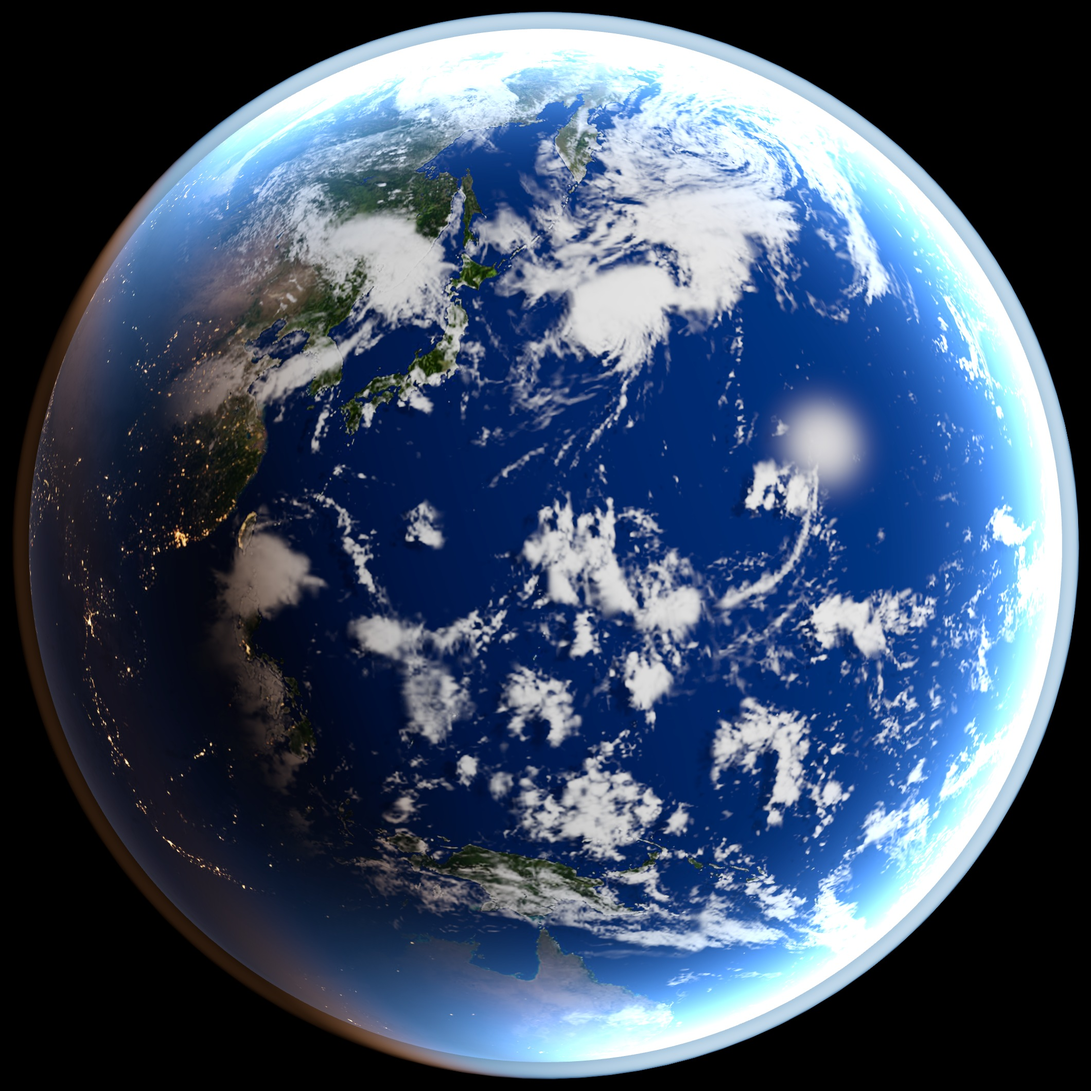
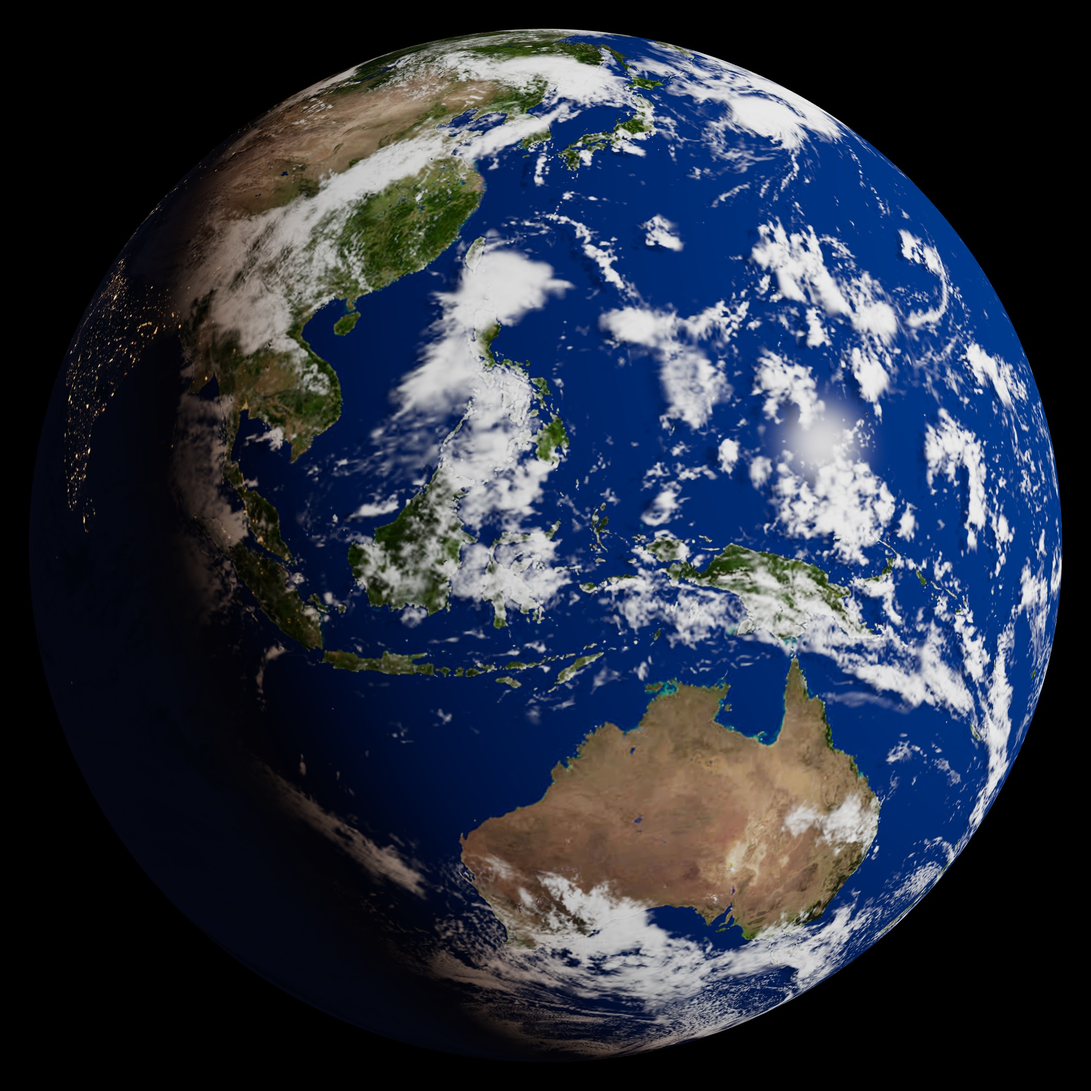
One Earth view at three sizes for the backdrop
The globe was re-rendered once from the first build's shader with the rim haze
off, tilted so China, Korea, Japan and a cloud system sit on the top limb and
Asia, Indonesia and Australia fill the disc. MakeBackdrop.py turns that single
still into the same full disc at 500, 250 and 140 art pixels, with a thin
atmosphere band on the lit limb only. The Americas still is no longer used.

diff --git a/Tools/MakeBackdrop.py b/Tools/MakeBackdrop.py
@@ -3,7 +3,7 @@ from pathlib import Path
 from PIL import Image, ImageEnhance
 
 Root = Path(__file__).resolve().parent
-Sources = {'Pacific': Root / 'Source' / 'GlobeStill.jpg', 'Americas': Root / 'Source' / 'GlobeLimbStill.jpg'}
+Source = Root / 'Source' / 'GlobeStill.jpg'
 Target = Path(sys.argv[1]) if len(sys.argv) > 1 else Root.parent / 'public' / 'Backdrop'
 SourceCentre = 1060
 SourceRadius = 1004
@@ -18,11 +18,7 @@ Lights = Hex('#ffcf6b')
 Surface = Night + Ocean + Cloud + Land + Dusk
 Palette = [(0, 0, 0)] + Surface + [Lights]
 LightShare = 24
-LargeSource = 'Pacific'
-LargeView = (0.75, -0.05, 0.13)
-Haze = 0.7
-HazeStart = 0.86
-Tint = (52, 112, 206)
+Sun = (0.82 / 1.0, 0.3, 0.49)
 Glint = (1598, 832)
 GlintRadius = 125
 GlintOcean = (14, 62, 140)
@@ -44,11 +40,6 @@ def Quantise(colour, x, y):
     return second if threshold < share else first
 
 
-def Dehaze(colour, reach):
-    weight = min(1.0, max(0.0, (reach - HazeStart) / (1 - HazeStart))) ** 1.4 * Haze
-    return tuple(round(colour[i] * (1 - weight) + Tint[i] * weight) for i in range(3))
-
-
 def Despeckle(grid, size, keep):
     out = [row[:] for row in grid]
     for y in range(1, size - 1):
@@ -65,7 +56,13 @@ def Despeckle(grid, size, keep):
     return out
 
 
-def Render(still, lights, diameter, keepRows=None, view=None):
+def Daylight(dx, dy, radius):
+    u, v = dx / radius, -dy / radius
+    depth = max(0.0, 1 - u * u - v * v) ** 0.5
+    return u * Sun[0] + v * Sun[1] + depth * Sun[2]
+
+
+def Render(still, lights, diameter):
     radius = diameter / 2
     pad = 3
     size = diameter + pad * 2
@@ -73,51 +70,34 @@ def Render(still, lights, diameter, keepRows=None, view=None):
     small = still.resize((diameter, diameter), Image.BOX, box=box).load()
     lit = lights.resize((diameter, diameter), Image.BOX, box=box).load()
     grid = [[None] * size for _ in range(size)]
-    if view:
-        zoom, shiftX, shiftY = view
-        factor = SourceRadius * zoom / radius
-        scaled = (round(still.size[0] / factor), round(still.size[1] / factor))
-        small = still.resize(scaled, Image.BOX).load()
-        lit = lights.resize(scaled, Image.BOX).load()
-        sample = lambda x, y: (int((SourceCentre + shiftX * SourceRadius) / factor + x - pad + 0.5 - radius), int((SourceCentre + shiftY * SourceRadius) / factor + y - pad + 0.5 - radius))
-    else:
-        sample = lambda x, y: (x - pad, y - pad)
     for y in range(size):
         for x in range(size):
             dx, dy = x - pad + 0.5 - radius, y - pad + 0.5 - radius
             distance = (dx * dx + dy * dy) ** 0.5
+            day = Daylight(dx, dy, radius)
+            threshold = Bayer[y % 4][x % 4]
             if distance < radius:
-                at = sample(x, y)
-                colour = small[at] if view else Dehaze(small[at], distance / radius)
+                colour = small[x - pad, y - pad]
                 edge = radius - distance
-                if view and edge < 1.6:
-                    grid[y][x] = Ocean[3]
-                elif view and edge < 4.6 and Bayer[y % 4][x % 4] < (8 if edge < 3.1 else 4):
+                if edge < 1.6 and day > 0.02:
+                    grid[y][x] = Ocean[3] if day > 0.12 or threshold < 8 else Night[2]
+                elif edge < 4.6 and day > 0.12 and threshold < (8 if edge < 3.1 else 4):
                     grid[y][x] = Ocean[2]
-                elif lit[at] > LightShare and sum(colour) < 150:
+                elif edge < 1.6:
+                    grid[y][x] = Night[2] if threshold < 8 else Night[1]
+                elif lit[x - pad, y - pad] > LightShare and sum(colour) < 150:
                     grid[y][x] = Lights
                 else:
                     grid[y][x] = Quantise(colour, x, y)
-            elif distance < radius + 2:
-                sx = int(SourceCentre + dx / distance * (SourceRadius + 14))
-                sy = int(SourceCentre + dy / distance * (SourceRadius + 14))
-                glow = sum(still.getpixel((sx, sy))) / 3
-                outer = distance >= radius + 1
-                checker = (x + y) % 2 == 0
-                if glow > 150:
-                    grid[y][x] = (Ocean[2] if checker else None) if outer else Ocean[3]
-                elif glow > 70:
-                    grid[y][x] = (Ocean[1] if checker and Bayer[y % 4][x % 4] < 4 else None) if outer else Ocean[2]
-                elif not outer:
-                    grid[y][x] = Night[2] if glow > 20 or checker else None
+            elif distance < radius + 1 and day > 0.12 and (x + y) % 2 == 0:
+                grid[y][x] = Ocean[2]
     grid = Despeckle(grid, size, {Lights})
-    rows = size if keepRows is None else min(size, keepRows + pad)
     index = {colour: at for at, colour in enumerate(Palette)}
-    image = Image.new('P', (size, rows), 0)
+    image = Image.new('P', (size, size), 0)
     flat = Palette + [(0, 0, 0)] * (256 - len(Palette))
     image.putpalette([channel for colour in flat for channel in colour])
     data = image.load()
-    for y in range(rows):
+    for y in range(size):
         for x in range(size):
             if grid[y][x] is not None:
                 data[x, y] = index[grid[y][x]]
@@ -136,16 +116,16 @@ def RemoveGlint(still):
 
 def Main():
     Target.mkdir(parents=True, exist_ok=True)
-    for name, source, diameter, keep, view in (('EarthLarge', LargeSource, 500, 170, LargeView), ('EarthMedium', 'Pacific', 250, None, None), ('EarthSmall', 'Pacific', 140, None, None)):
-        image = Render(*Prepare(source), diameter, keep, view)
+    still, lights = Prepare()
+    for name, diameter in (('EarthLarge', 500), ('EarthMedium', 250), ('EarthSmall', 140)):
+        image = Render(still, lights, diameter)
         image.save(Target / f'{name}.png', optimize=True, transparency=0)
         print(name, image.size)
 
 
-def Prepare(source):
-    still = Image.open(Sources[source]).convert('RGB')
-    if source == 'Pacific':
-        RemoveGlint(still)
+def Prepare():
+    still = Image.open(Source).convert('RGB')
+    RemoveGlint(still)
     still = ImageEnhance.Color(still).enhance(1.5).point(lambda v: round(255 * (v / 255) ** 0.8))
     pixels = still.load()
     mask = Image.new('L', still.size, 0)
